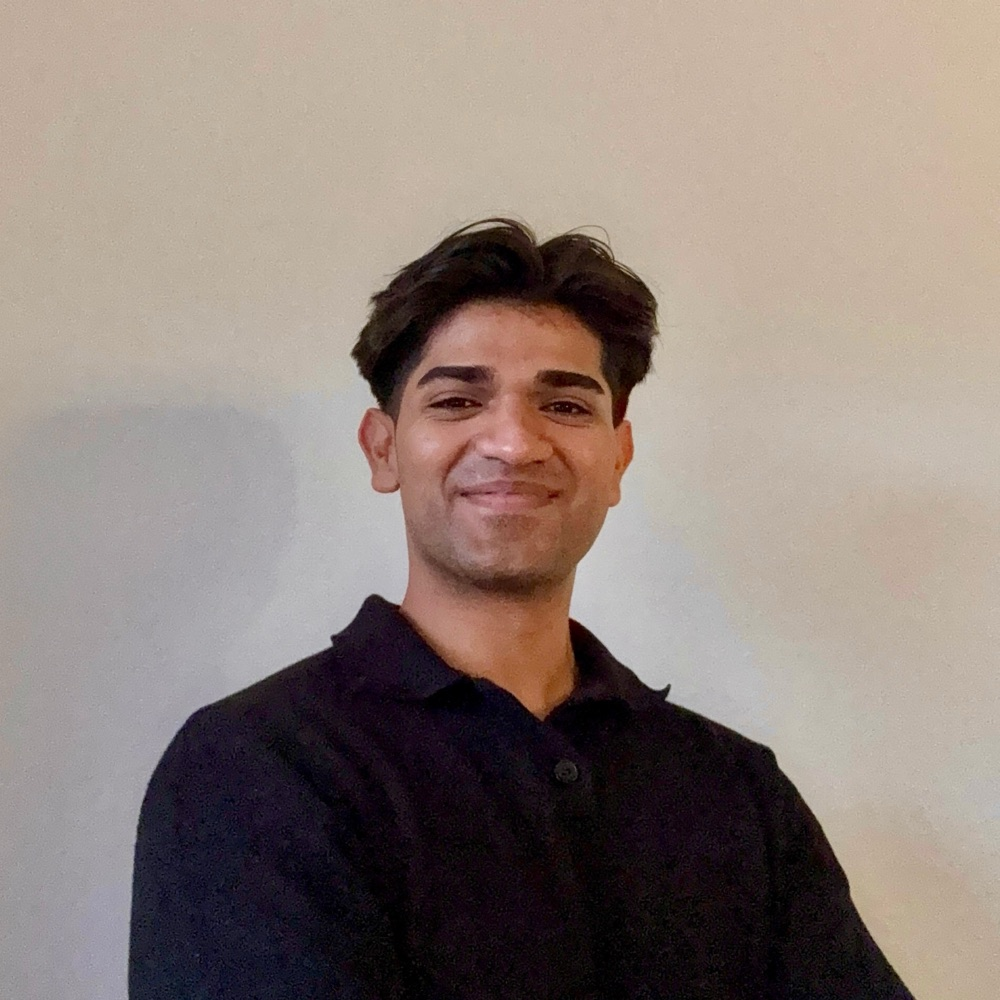
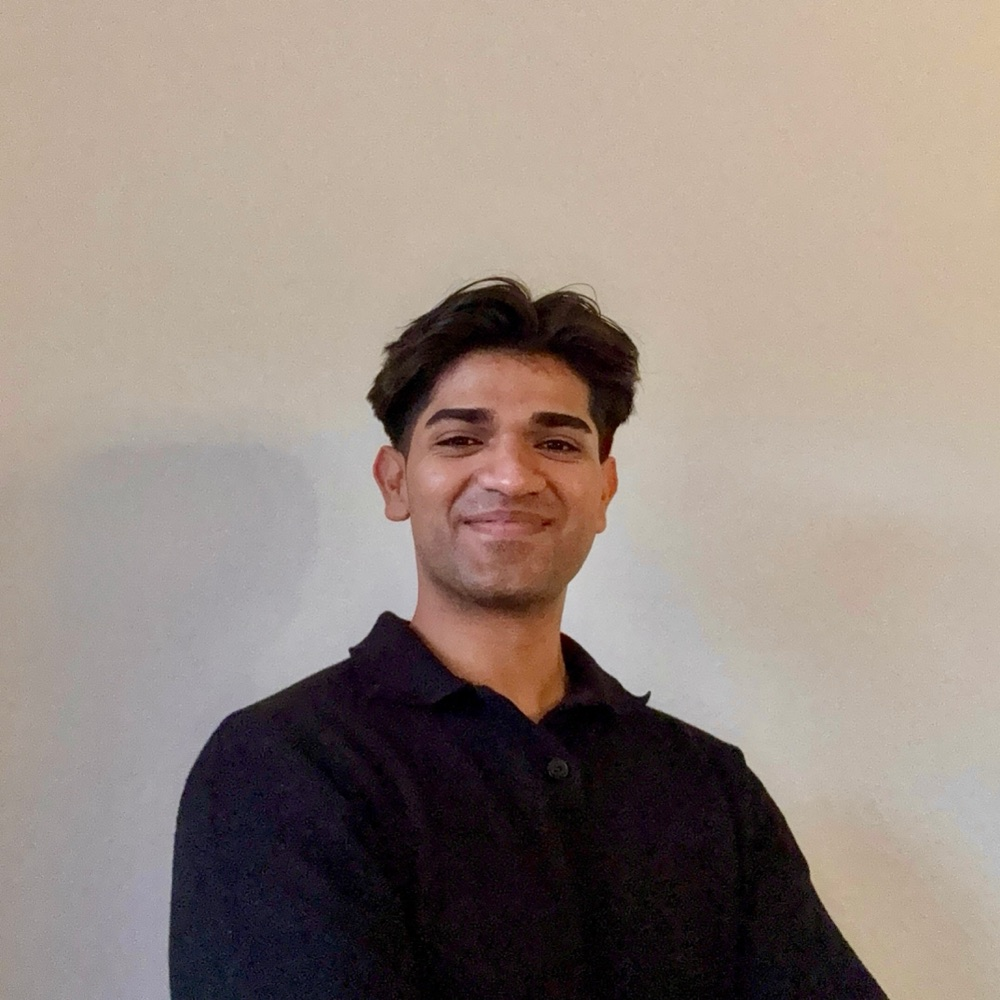
About portrait: more headroom, lighter vignette, cache-busted path

diff --git a/components/AboutModal.tsx b/components/AboutModal.tsx
@@ -10,12 +10,14 @@ interface AboutModalProps {
 const BIO = about.bio;
 const PORTRAIT = about.portrait;
 
-// Portrait mask — two gradients intersected: the radial feathers the outer
-// ring so the circle dissolves into the page (no hard edge), the linear fade
-// dissolves the shoulders into negative space at the bottom. Applied to the
-// circle *container* so the photo and its vignette fade out together.
+// Portrait mask — two gradients intersected: the radial softens only the very
+// rim so the circle has no hard edge while the photo itself stays visible
+// (feather too far in and it reads as a glowing orb, not a picture); the
+// linear fade dissolves the shoulders into negative space at the bottom.
+// Applied to the circle *container* so the photo and its vignette fade out
+// together.
 const PORTRAIT_MASK =
-  "radial-gradient(closest-side, #000 68%, transparent 100%), linear-gradient(to bottom, #000 78%, transparent 99%)";
+  "radial-gradient(closest-side, #000 88%, transparent 100%), linear-gradient(to bottom, #000 84%, transparent 99.5%)";
 const STATUS = about.status;
 const FOCUS = about.focus ?? [];
 
@@ -297,18 +299,19 @@ function Portrait() {
               // The wall behind the subject is bright; easing brightness and
               // saturation down lets the photo sit *in* the dark page instead
               // of glaring off it, while the face stays fully legible.
-              filter: "brightness(0.88) contrast(1.06) saturate(0.9)",
+              filter: "brightness(0.92) contrast(1.05) saturate(0.92)",
             }}
           />
-          {/* Vignette over the photo: ramps the light wall down to the
-              overlay's own background towards the rim, so what the mask fades
-              out is already page-dark and the circle has no visible edge. */}
+          {/* Vignette over the photo: a thin rim shade that settles the bright
+              wall onto the dark page. Deliberately shallow and late — pulled
+              any further in it stops being a vignette and turns the portrait
+              into a moon. */}
           <div
             aria-hidden
             className="pointer-events-none absolute inset-0"
             style={{
               background:
-                "radial-gradient(closest-side, rgba(8,7,15,0) 34%, rgba(8,7,15,0.42) 72%, rgba(8,7,15,0.9) 100%)",
+                "radial-gradient(closest-side, rgba(8,7,15,0) 62%, rgba(8,7,15,0.2) 86%, rgba(8,7,15,0.6) 100%)",
             }}
           />
         </div>

diff --git a/CLAUDE.md b/CLAUDE.md
@@ -44,7 +44,7 @@ Single-page portfolio modelled on anshulchahar.com. Everything renders from one 
 - It's strict JSON: double-quote every key/string, comma between items, **no trailing comma** on the last item, no comments. A mistake surfaces as a build/dev-overlay error, not silently. `npm run dev` hot-reloads on save (usually a full refresh, which resets the view to the top level — expected).
 - **Add / remove / reorder** experience or project entries by editing those arrays; slugs (`exp-N`/`proj-N`) renumber automatically, and the arc, scrolling, and detail page all follow.
 - **Rename a section:** change its `label` in `sections` (leave `id` — it's structural). Updates the nav link *and* that section's panel heading.
-- **About portrait:** `about.portrait` is a path under `public/` (e.g. `/portrait.jpg`) shown as a circular avatar in the About header (`AboutModal`); omit/empty to hide it. Drop the new image in `public/` first. The crop/framing (face position + the bottom mask that fades the torso into negative space) lives in `AboutModal.tsx` — tune `objectPosition` and the mask stops there, not in content. `about.bio` and `about.languages` complete that section.
+- **About portrait:** `about.portrait` is a path under `public/` (e.g. `/portrait.jpg`) shown as a circular avatar in the About header (`AboutModal`); omit/empty to hide it. Drop the new image in `public/` first. The live site sits behind Cloudflare with `max-age=14400`, so **replacing an image in place is not enough** — a hard reload can still serve the old one for hours. Bump the version query on the path (`/portrait.jpg?v=3`) so the URL itself changes. The file itself is **pre-cropped square** with the face centred and headroom above it, so reframing means re-cropping the image (`sips -c S S --cropOffset Y X`), not nudging `objectPosition`. The blend (rim feather + bottom mask that fades the torso into negative space, the vignette, the photo filter) lives in `AboutModal.tsx` — `PORTRAIT_MASK` and the vignette gradient, not in content. `about.bio` and `about.languages` complete that section.
 - **Skills** is a list of `{ label, items[] }` categories rendered in order, each a row of pills — reorder the array (and items) to reflect importance. Labels are free text.
 - **Optional fields are hidden when absent/empty:** experience `highlights`, project `description`/`highlights`/`period`/`stack`/`link`/`pdfs`. Delete the line to omit it.
 - **Project bodies: `description` (one paragraph) OR `highlights` (multiple paragraphs).** Like an experience entry, a project's `highlights` is an array of strings rendered as **arrow (→) bullets** — one per paragraph; use it when a project needs more than a single line. `description` and `highlights` can coexist (description reads as a lead-in above the bullets). See the Identity Resolution project for the shape.
